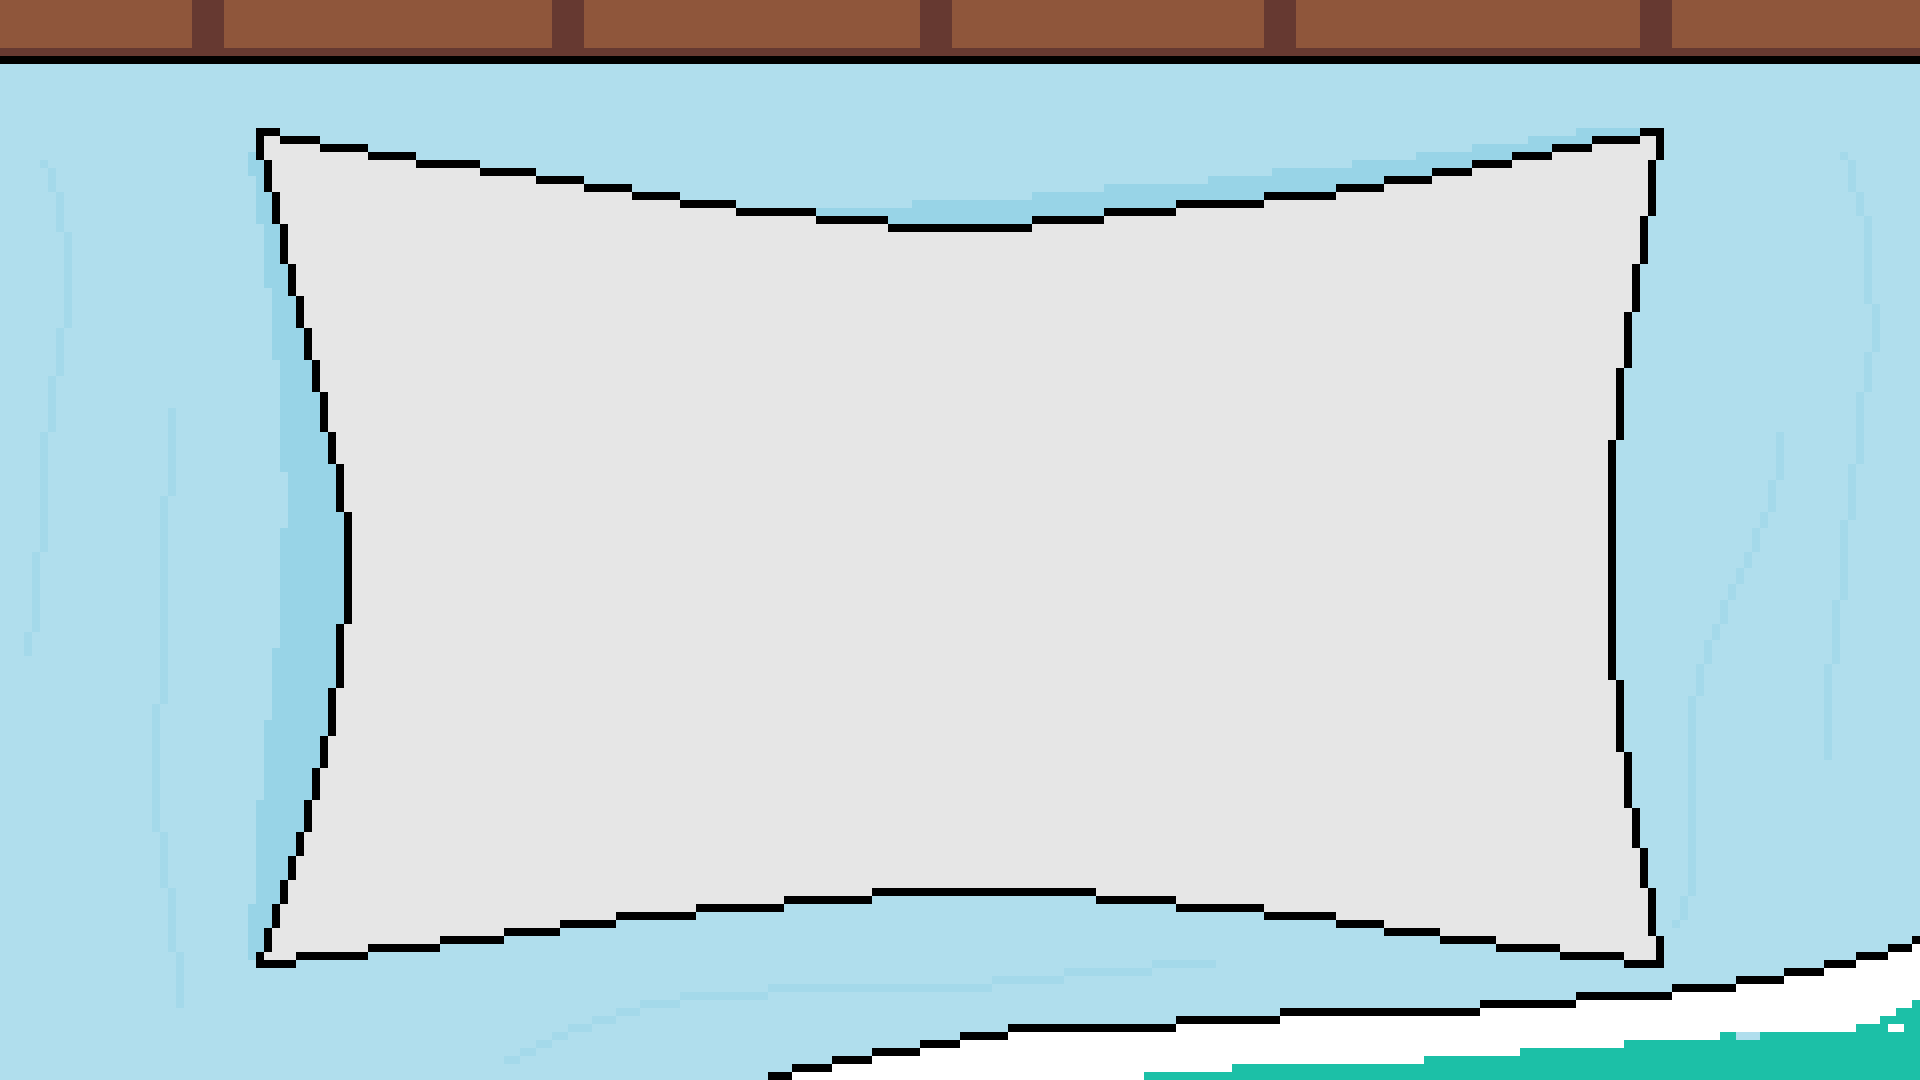
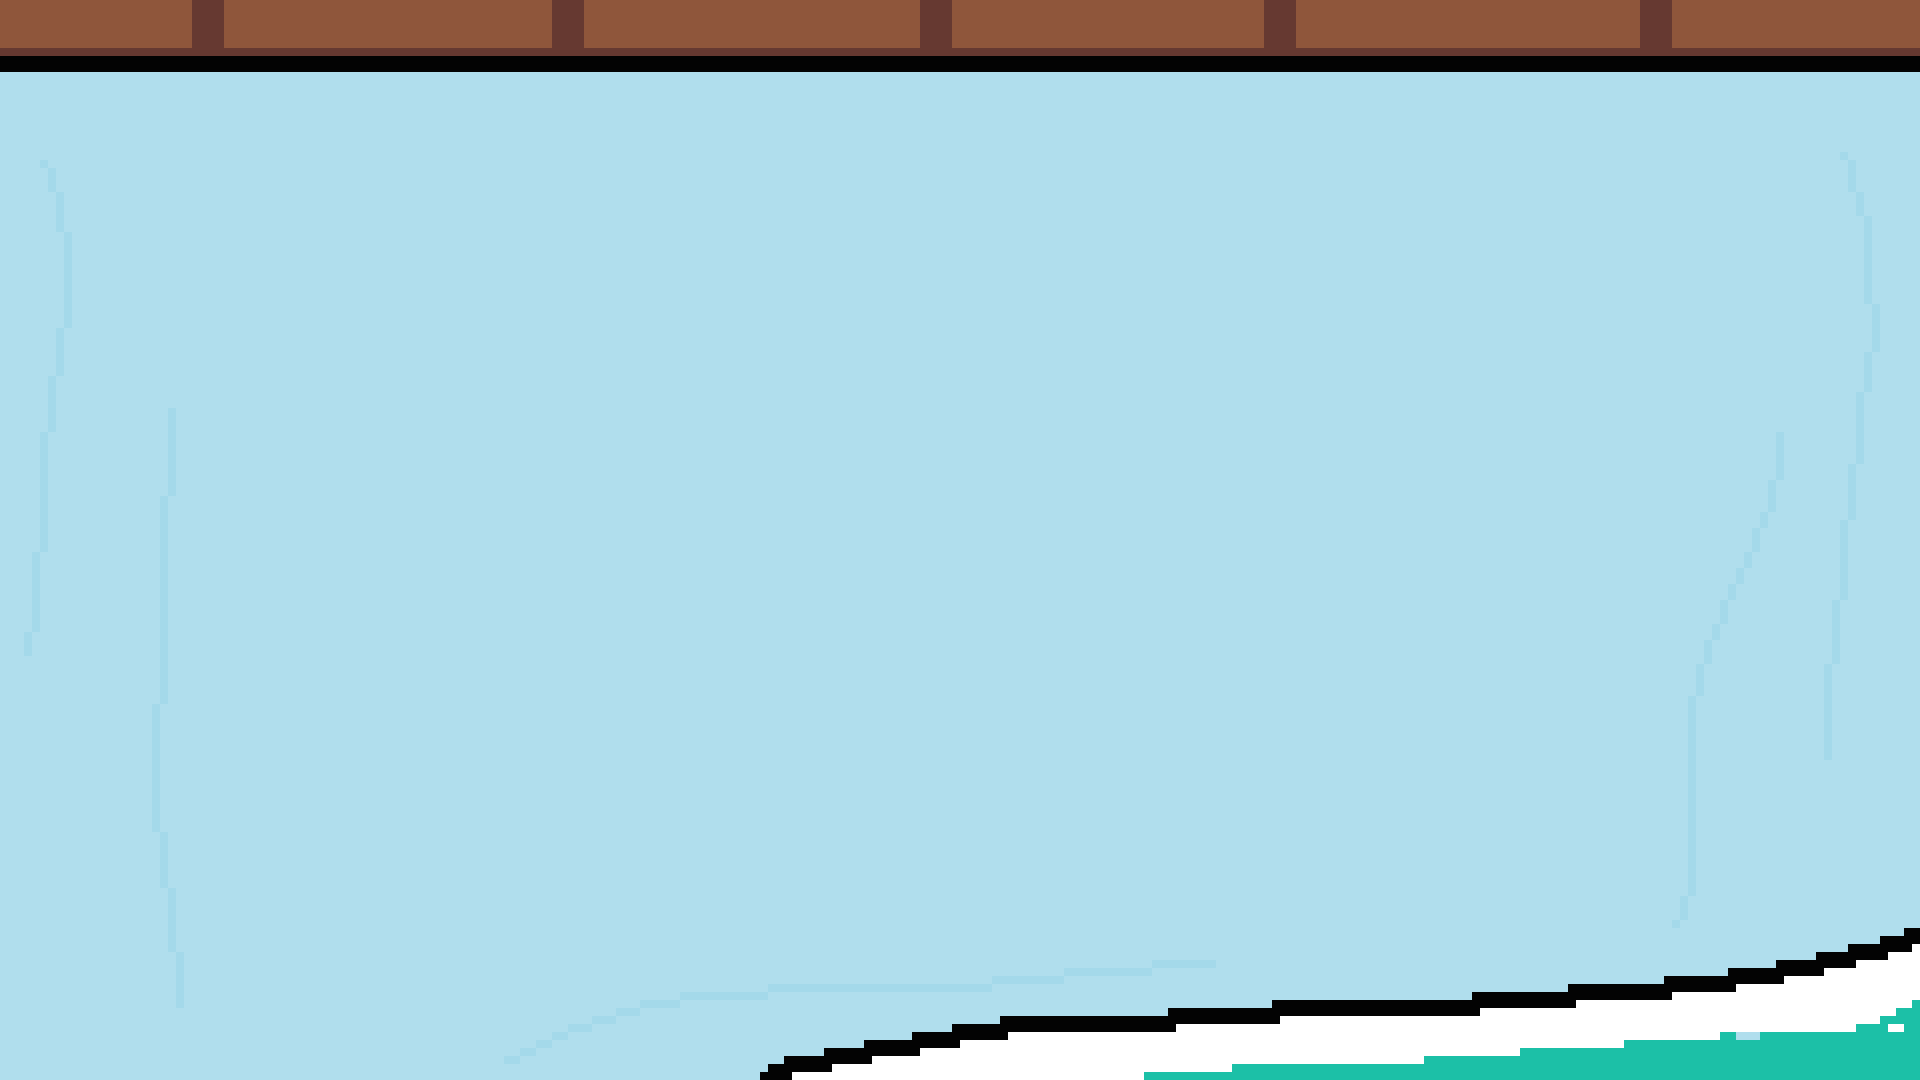
fix/feat: changed bed assets to better match the style of other assets. Added optional argument resize to control by how much hovering resizes the sprite, default: 1.1.

diff --git a/src/main/java/com/example/escapeyourbedroom/BedScripts.java b/src/main/java/com/example/escapeyourbedroom/BedScripts.java
@@ -7,14 +7,16 @@ import static com.example.escapeyourbedroom.Utilities.exitButton;
 @SuppressWarnings("ClassEscapesDefinedScope")
 public class BedScripts {
 
-    public static ClickableSprite bedZoomed = new ClickableSprite("file:assets/bed_zoom.png", "Move Pillow", 0 ,0);
+    public static ClickableSprite bedZoomed = new ClickableSprite("file:assets/bed_zoom.png", "", 0 ,0);
+    public static ClickableSprite pillow = new ClickableSprite("file:assets/pillow.png", "Move Pillow", 0, 0);
     public static ImageView bedZoomedNoPillow = new ClickableSprite("file:assets/bed_zoom_zoom_wroooom.png", "", 0, 0);
 
     static void initializeBed() {
-        bedZoomed.setOnMouseClicked(mouseEvent -> {
+        pillow.setOnMouseClicked(mouseEvent -> {
             zoomZoomToBed();
             Utilities.renderChildSprite("key_2.png", -150, -50);
         });
+        pillow.setHighlightAndLabelOnHover(1.03);
     }
 
     // 'Zoom' in to zoomed bed
@@ -25,6 +27,7 @@ public class BedScripts {
 
     public static void zoomToBed() {
         bedZoomed.show();
+        pillow.show();
         exitButton();
     }
 }

diff --git a/src/main/java/com/example/escapeyourbedroom/ClickableSprite.java b/src/main/java/com/example/escapeyourbedroom/ClickableSprite.java
@@ -40,14 +40,19 @@ class ClickableSprite extends ImageView {
         toFront();
     }
 
+    // no argument - rescale by default 1.1
     void setHighlightAndLabelOnHover() {
+        setHighlightAndLabelOnHover(1.1);
+    }
+
+    void setHighlightAndLabelOnHover(double rescale) {
         setOnMouseEntered(event -> {
             if (!isZoomed) {
                 // When mouse enters a sprite, show its name on the name tag and highlight it
                 Utilities.nameTag.setText(name);
                 Utilities.nameTag.show();
-                setScaleX(this.getScaleX() * 1.1);
-                setScaleY(this.getScaleY() * 1.1);
+                setScaleX(this.getScaleX() * rescale);
+                setScaleY(this.getScaleY() * rescale);
             }
         });
         setOnMouseExited(event -> {
